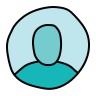
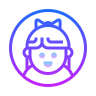
new style

diff --git a/app/assets/stylesheets/components/_card.scss b/app/assets/stylesheets/components/_card.scss
@@ -4,3 +4,37 @@
     text-decoration: none;
   }
 }
+
+.card-sl {
+  border-radius: 8px;
+  box-shadow: 0 4px 8px 0 rgba(0, 0, 0, 0.2), 0 6px 20px 0 rgba(0, 0, 0, 0.19);
+}
+
+.card-img-top {
+  object-fit: cover;
+  object-position: top;
+  border-radius: 5px 5px 0px 0px;
+}
+
+.card-heading {
+  font-size: 18px;
+  font-weight: bold;
+  background: #fff;
+  padding: 10px 15px;
+}
+
+.card-text {
+  padding: 10px 15px;
+  background: #fff;
+  font-size: 14px;
+  color: #636262;
+}
+
+.card-slot {
+  padding: 10px 15px;
+  background: #fff;
+  font-size: 14px;
+  color: #636262;
+  border-radius: 0px 0px 5px 5px;
+  text-align: end;
+}

diff --git a/app/assets/stylesheets/config/_bootstrap_variables.scss b/app/assets/stylesheets/config/_bootstrap_variables.scss
@@ -6,7 +6,7 @@
 // General style
 $font-family-sans-serif:  $body-font;
 $headings-font-family:    $headers-font;
-$body-bg:                 $light-cyan;
+// $body-bg:                 $light-cyan;
 $font-size-base: 1rem;
 
 // Colors

diff --git a/app/assets/stylesheets/events/_new.scss b/app/assets/stylesheets/events/_new.scss
@@ -4,7 +4,6 @@
   font-family: Raleway;
   padding: 40px;
   border-radius: 10px;
-  margin-top: 15vh;
 }
 
 #register{
@@ -103,4 +102,8 @@ button:focus{
 
 .thanks-message {
   display: none
+}
+
+#show {
+  margin-top: 197px;
 }

diff --git a/app/assets/stylesheets/components/_button.scss b/app/assets/stylesheets/components/_button.scss
@@ -29,6 +29,7 @@
   position: fixed;
   width: 52px;
   height: 52px;
-  left: 289px;
-  bottom: 110px;
+  left: 163px;
+  bottom: 54px;
+  z-index: 10000;
 }

diff --git a/app/assets/stylesheets/components/_navbar.scss b/app/assets/stylesheets/components/_navbar.scss
@@ -12,4 +12,6 @@
 
 #nav-d-none {
   display: flex;
+  background-color: #ccecea;
+  border-radius: 64px 64px 0px 0px;
 }

diff --git a/app/assets/stylesheets/config/_colors.scss b/app/assets/stylesheets/config/_colors.scss
@@ -10,4 +10,4 @@ $gray: #0E0000;
 $light-gray: #F4F4F4;
 
 $main: #a73df2;
-$light-cyan: #EBFFFB;
+$light-cyan: #dfe9e7;
